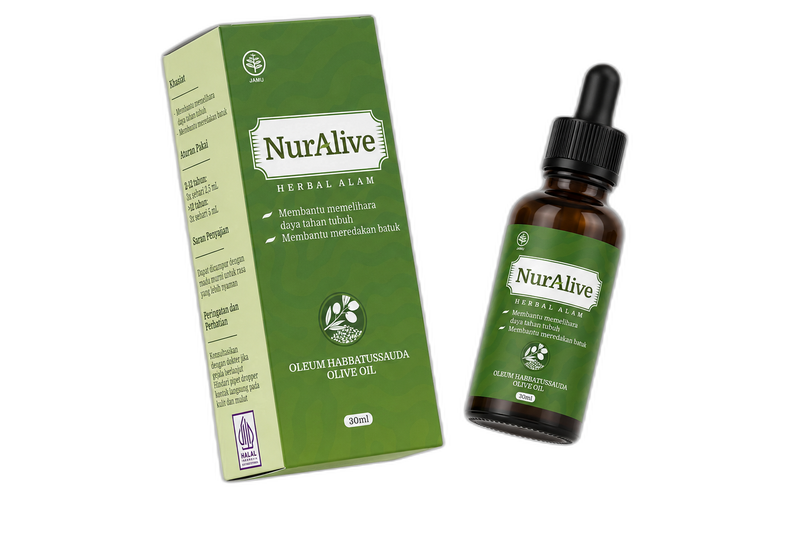
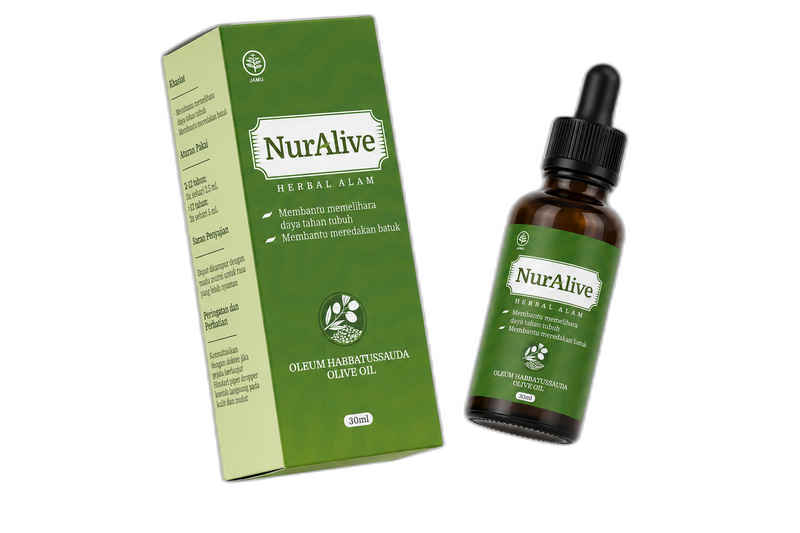
Update hero image with newest mockup and add scale-in animation

diff --git a/src/app/globals.css b/src/app/globals.css
@@ -74,8 +74,22 @@ body {
   }
 }
 
+@keyframes fadeScale {
+  from {
+    opacity: 0;
+    transform: scale(0.92);
+  }
+  to {
+    opacity: 1;
+    transform: scale(1);
+  }
+}
+
 @media (prefers-reduced-motion: no-preference) {
   .fade-up {
     animation: fadeUp 0.7s ease-out both;
+  }
+  .fade-scale {
+    animation: fadeScale 0.9s cubic-bezier(0.16, 1, 0.3, 1) both;
   }
 }

diff --git a/src/components/landing/Hero.tsx b/src/components/landing/Hero.tsx
@@ -55,7 +55,7 @@ export default function Hero() {
           </div>
         </div>
 
-        <div className="fade-up relative mx-auto w-full max-w-md sm:max-w-lg lg:max-w-xl xl:max-w-2xl lg:scale-110 xl:scale-125 origin-bottom lg:-mb-10" style={{ animationDelay: "0.15s" }}>
+        <div className="fade-scale relative mx-auto w-full max-w-md sm:max-w-lg lg:max-w-xl xl:max-w-2xl lg:scale-110 xl:scale-125 origin-bottom lg:-mb-10" style={{ animationDelay: "0.15s" }}>
           <Image
             src="/product-hero.png"
             alt="NurAlive Product"